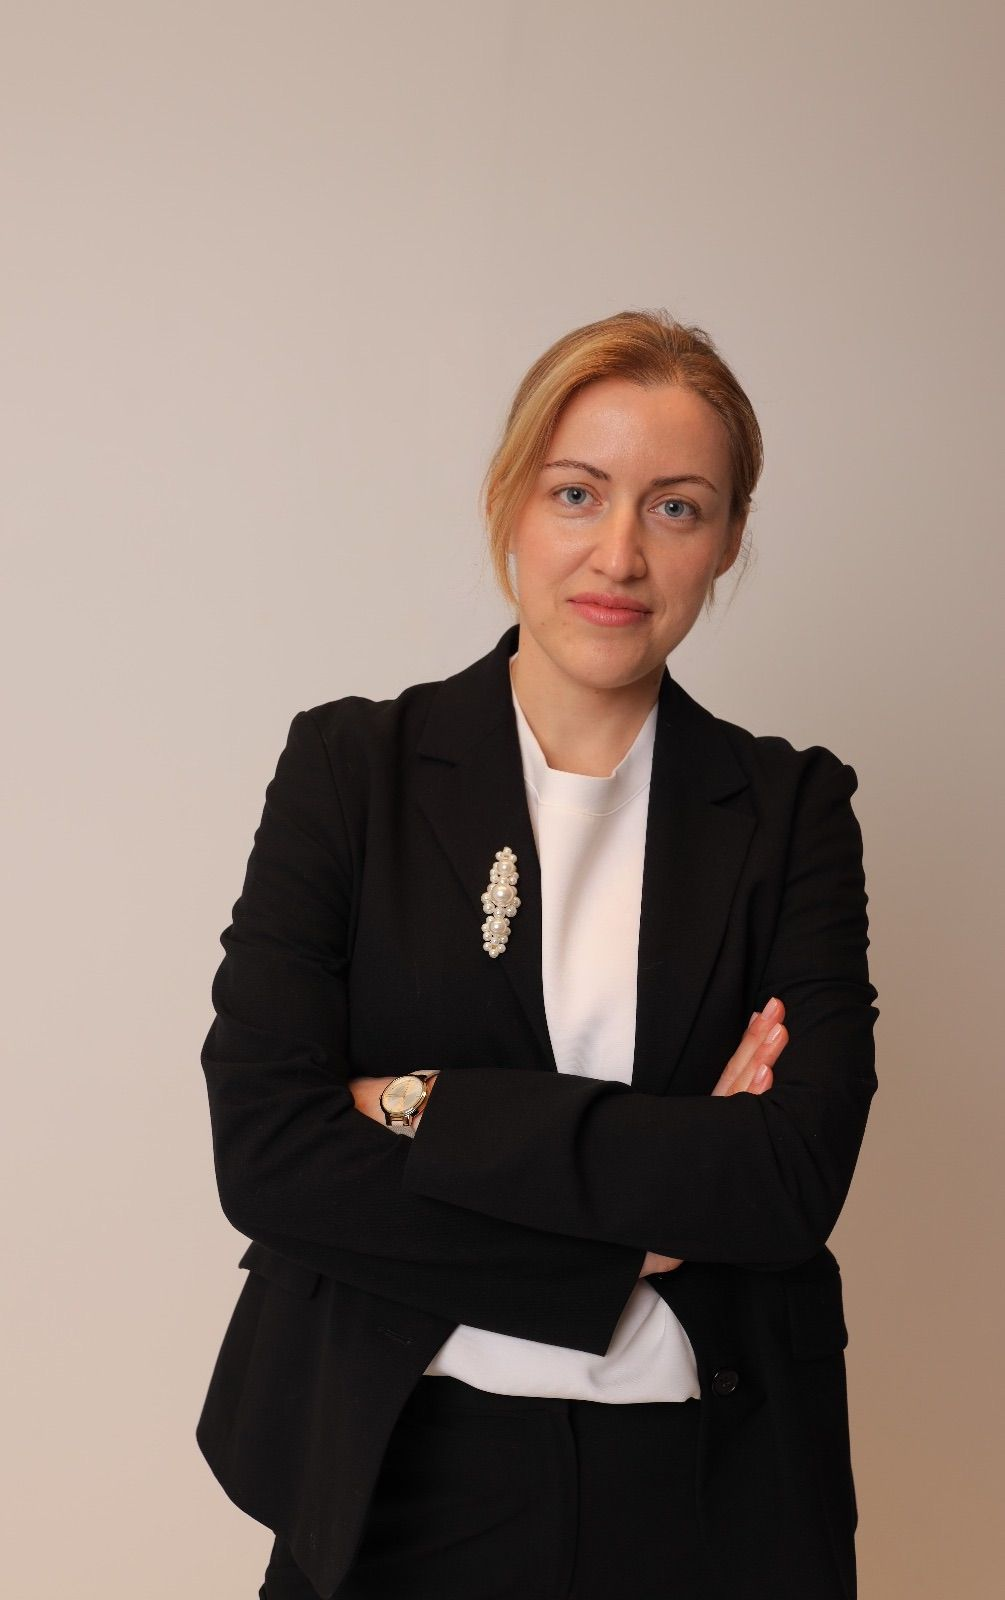
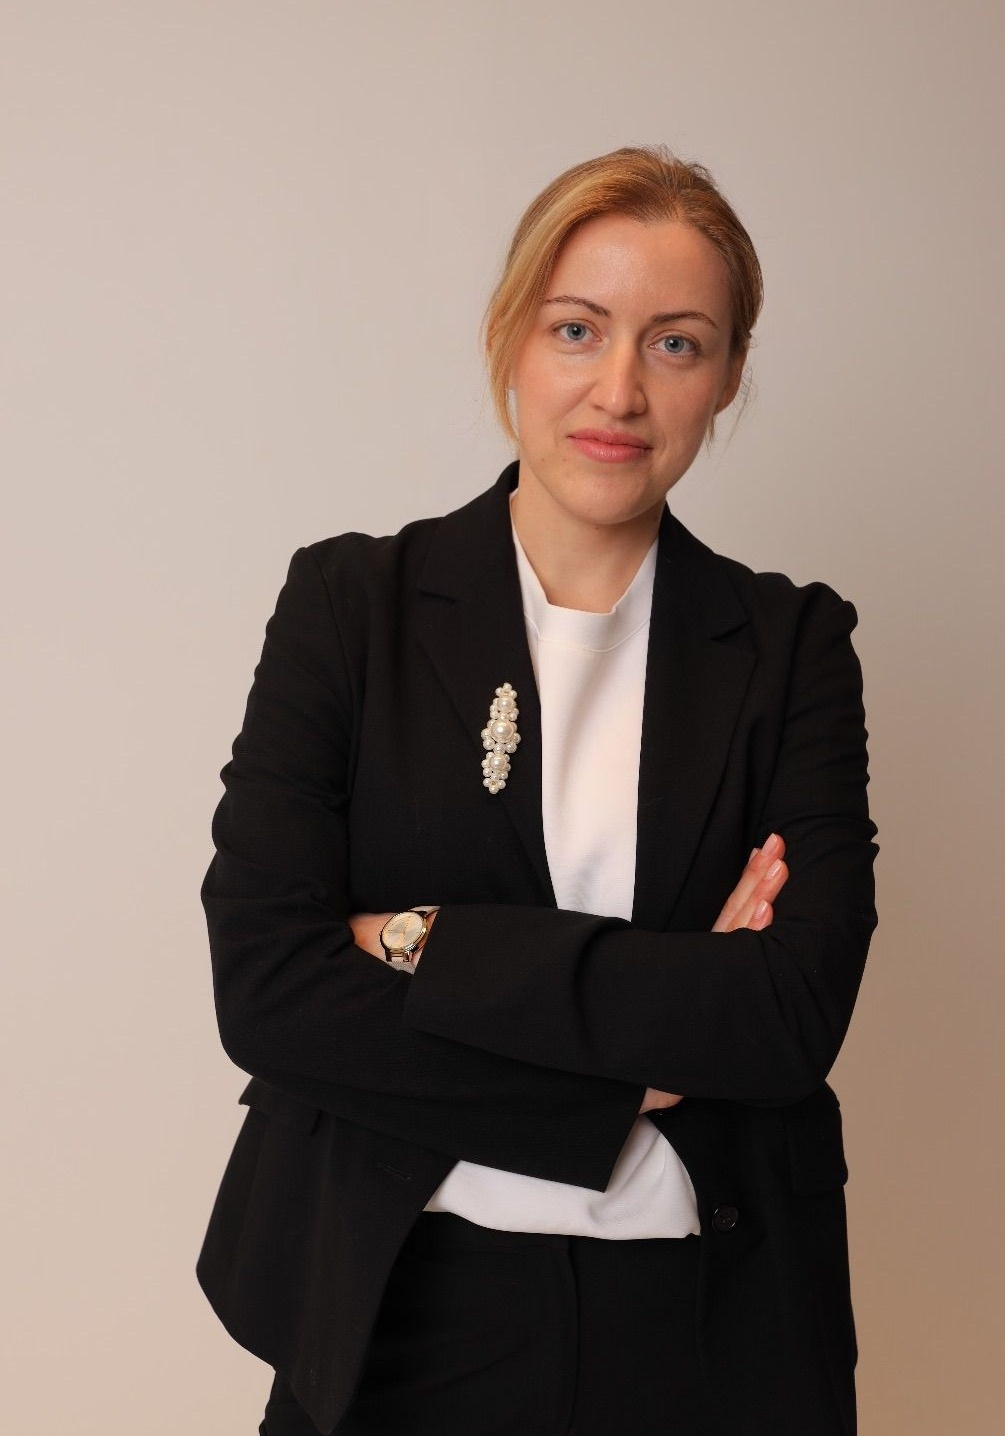
jpeg

diff --git a/src/data/teamData.js b/src/data/teamData.js
@@ -1,7 +1,7 @@
 import Peresada from "../Images/Peresada.jpeg";
 import Pereverten from "../Images/Pereverten.jpeg";
 import Margo from "../Images/1111.jpeg";
-import Yuksel from "../Images/Yuksel.jpg";
+import Yuksel from "../Images/Yuksel.jpeg";
 import Tomanova from "../Images/Tomanova.jpeg";
 
 const teamData = [
